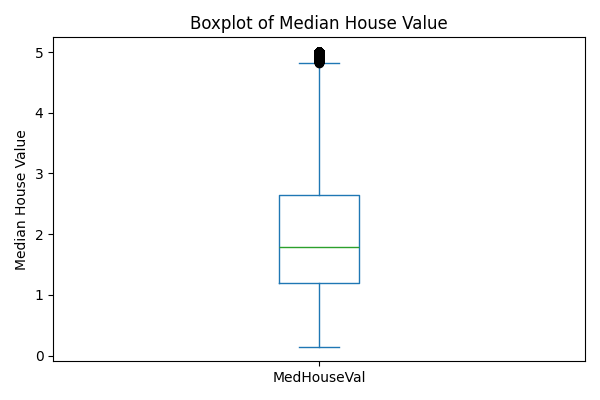
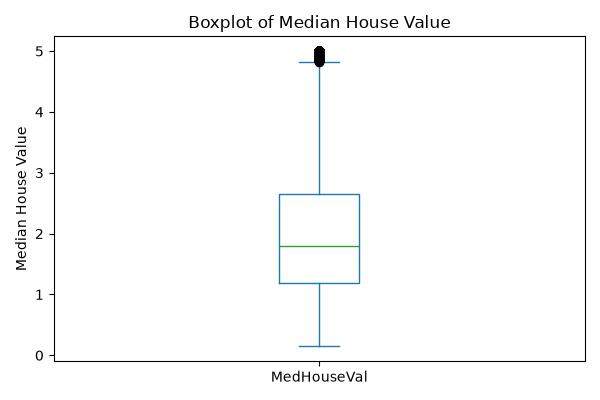
Add train-test split for California housing data
- Separated the features and target variable
- Added an 80/20 train-test split
- Used random_state=42 for reproducible results
- Confirmed the training and testing dataset shapes

diff --git a/src/ds_pipeline.py b/src/ds_pipeline.py
@@ -1,7 +1,9 @@
 # Step 1: Read the data
 from sklearn.datasets import fetch_california_housing
+from sklearn.model_selection import train_test_split
 import pandas as pd
 import matplotlib.pyplot as plt
+
 
 # Load California Housing dataset
 housing = fetch_california_housing(as_frame=True)
@@ -12,6 +14,22 @@ df = housing.frame
 # Quick check
 print(df.head())
 print(df.shape)
+
+# Separate the features and target
+X = df.drop(columns=["MedHouseVal"])
+y = df["MedHouseVal"]
+
+# Split into 80% training data and 20% testing data
+X_train, X_test, y_train, y_test = train_test_split(
+    X,
+    y,
+    test_size=0.20,
+    random_state=42
+)
+
+# Check the training and testing shapes
+print("Training set shape:", X_train.shape)
+print("Testing set shape:", X_test.shape)
 
 # you can save the boxplot...
 plt.figure(figsize=(6, 4))
